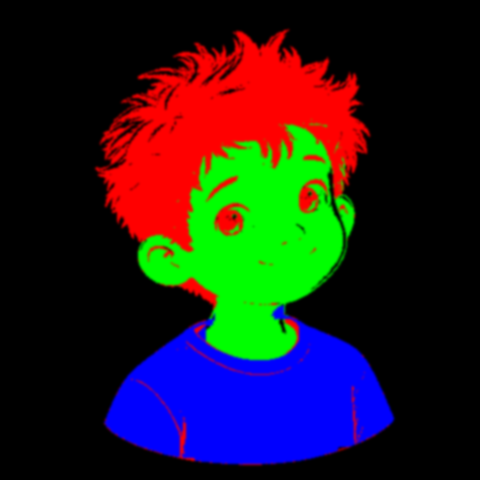
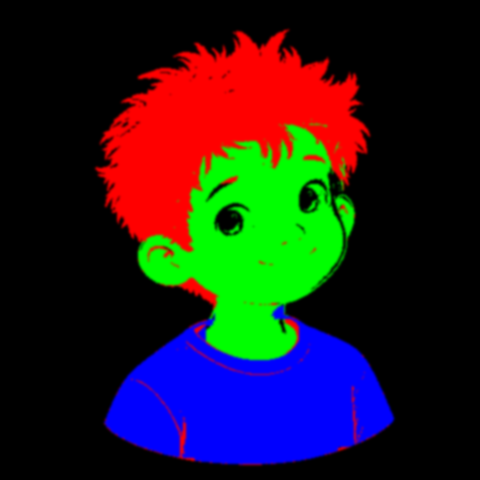
Éditeur : yeux propres (iris seul, pupille et cils intacts), blond clair sans taches orangées
Claude-Session: https://claude.ai/code/session_01GtotwTBzomeNM5Jpbpi6mC

diff --git a/static/avatar.js b/static/avatar.js
@@ -264,7 +264,7 @@
           const w = (z.eye ? P.eyes[p] : M[p + z.i]) / 255; if (w < .01) continue;
           let [h, s, l] = rgb2hsl(r, g, b);
           if (z.eye) { h = z.ht; s = Math.min(1, z.st * 1.2) * Math.min(1, Math.max(0, (l - 0.06) / 0.22)); }   // iris : teinte imposée, pupille neutre
-          else { h = (h + z.dh + 1) % 1; s = Math.min(1, s * z.ks); }
+          else { h = (h + z.dh + 1) % 1; s = Math.min(1, s * (z.lt > z.lb ? Math.min(1, z.ks) : z.ks)); }   // éclaircir sans sursaturer
           l = z.lt <= z.lb ? l * z.lt / Math.max(z.lb, 1e-3) : Math.min(0.96, Math.max(0, Math.min(z.lt, 0.72) + (l - z.lb) * 0.8));   // éclaircir sans aplatir
           const [r2, g2, b2] = hsl2rgb(h, s, Math.max(0, Math.min(1, l)));
           r = r * (1 - w) + r2 * w; g = g * (1 - w) + g2 * w; b = b * (1 - w) + b2 * w;

diff --git a/build_masks.py b/build_masks.py
@@ -90,6 +90,8 @@ def child(im):
     skin = skinreg & warm & (S > 0.08) & (V > 0.6)
     hairlike = (((H > 4) & (H < 46)) | (V < 0.35)) & (S > 0.2) & (V < 0.9)
     hair = A & ~shirt & ~skin & ~feat & hairlike
+    grow = np.asarray(Image.fromarray((hair * 255).astype(np.uint8)).filter(ImageFilter.MaxFilter(3))) > 127
+    hair = grow & A & ~shirt & ~skin & ~feat                         # attrape les petites mèches sombres isolées
     return {"R": hair, "G": skin, "B": shirt, "_feat": feat, "_face": face}
 
 
@@ -129,9 +131,10 @@ def find_eyes(z, im):
         pts = c[3]; r = max(pts[:, 1].max() - pts[:, 1].min(), pts[:, 0].max() - pts[:, 0].min()) / 2 + 2
         eyes.append([round(float(c[1]), 1), round(float(c[2]), 1), round(float(r), 1)])
         yy, xx = np.mgrid[0:SIZE, 0:SIZE]
-        disk = (xx - c[1]) ** 2 + (yy - c[2]) ** 2 <= (r * 0.82) ** 2
-        # iris seulement : ni la pupille noire, ni les reflets, ni les cils et paupières (sombres et peu saturés)
-        iris |= disk & (V > 0.08) & ~((V > 0.6) & (S < 0.3))       # ni la pupille, ni le blanc de l'œil, ni les reflets
+        disk = (xx - c[1]) ** 2 + (yy - c[2]) ** 2 <= (r * 1.1) ** 2
+        # iris = tout ce qui est brun-orangé dans l'œil (y compris ses reflets clairs) ; ni le blanc, ni la peau, ni la pupille noire
+        brun = (H > 5) & (H < 45) & (S > 0.3) & (V > 0.12) & ((V < 0.8) | (S > 0.6))
+        iris |= disk & brun
     return eyes, iris
 
 
@@ -168,6 +171,9 @@ def main():
             eyes, iris = find_eyes(zones, im)
             if eyes:
                 extra["eyes"] = eyes
+                yy, xx = np.mgrid[0:SIZE, 0:SIZE]
+                for ex, ey, er in eyes:                    # jamais de couleur de cheveux sur les yeux, cils et sourcils proches
+                    zones["R"] &= ~((xx - ex) ** 2 + (yy - ey) ** 2 <= (er * 1.9) ** 2)
                 Image.fromarray((blur(iris.astype(np.float32), 0.8) * 255).astype(np.uint8)).save(f"static/avatars/{name}.eyes.png", optimize=True)
                 zones["E"] = iris
         rgb = np.asarray(im.convert("RGB")).astype(np.float32)

diff --git a/generator.py b/generator.py
@@ -912,7 +912,7 @@ def recolor_model(kind, cfg):
             hb, sb, lb = [float(v) for v in _rgb2hsl(*[np.array(v / 255) for v in st[k]])]
             ht, stt, lt = [float(v) for v in _rgb2hsl(*[np.array(v) for v in _hex(t[k])])]
             h, s, l = _rgb2hsl(r, g, b)
-            h = (h + ht - hb + 1) % 1; s = np.minimum(1, s * stt / max(sb, .05))
+            h = (h + ht - hb + 1) % 1; s = np.minimum(1, s * (min(1, stt / max(sb, .05)) if lt > lb else stt / max(sb, .05)))
             l = l * lt / max(lb, 1e-3) if lt <= lb else np.clip(min(lt, 0.72) + (l - lb) * 0.8, 0, 0.96)   # éclaircir sans aplatir les mèches
             r2, g2, b2 = _hsl2rgb(h, s, np.clip(l, 0, 1))
             w = mask[..., i]
